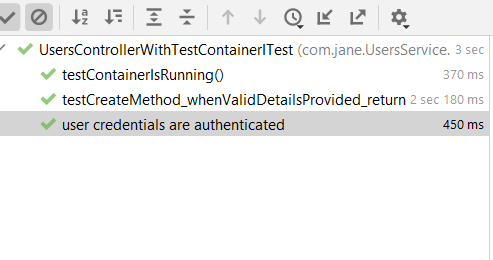
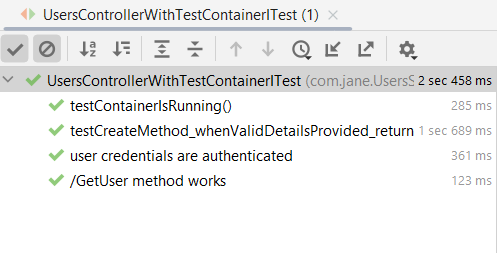
create testGetUser_whenValidAuthenticationToken_returnsUser test method

diff --git a/src/test/java/com/jane/UsersService/ui/UsersControllerWithTestContainerITest.java b/src/test/java/com/jane/UsersService/ui/UsersControllerWithTestContainerITest.java
@@ -138,4 +138,22 @@ public class UsersControllerWithTestContainerITest {
         assertNotNull(userId);
         assertNotNull(token);
     }
+
+    @Test
+    @Order(4)
+    @DisplayName("/GetUser method works")
+    void testGetUser_whenValidAuthenticationToken_returnsUser(){
+        given()  //Arrange
+                .pathParam("userId", this.userId)
+                .header("Authorization", "Bearer " + this.token)
+//                .auth().oauth2(this.token)
+        .when()  //Act
+                .get("/users/{userId}")
+        .then()  //Assert
+                .statusCode(HttpStatus.OK.value())
+                .body("id", equalTo(this.userId))
+                .body("email", equalTo(TEST_EMAIL))
+                .body("firstName", notNullValue())
+                .body("lastName", notNullValue());
+    }
 }

diff --git a/README.md b/README.md
@@ -11,3 +11,4 @@ Test Methods in UsersControllerWithTestContainerITest.java:
 
 testCreateMethod_whenValidDetailsProvided_returnsCreatedUser
 testLogin_whenValidCredentialsProvided_returnsTokenAndValidUserIdHeaders
+testGetUser_whenValidAuthenticationToken_returnsUser
